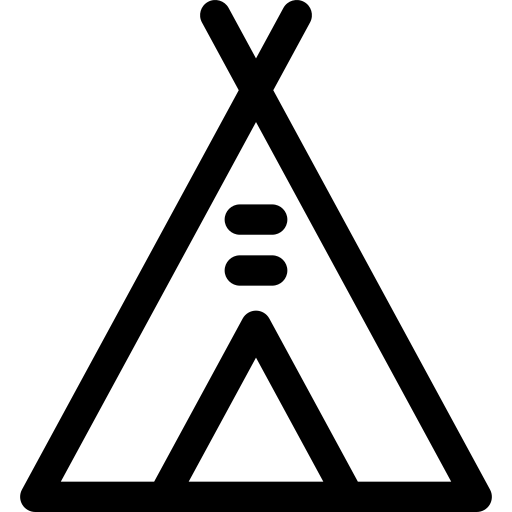
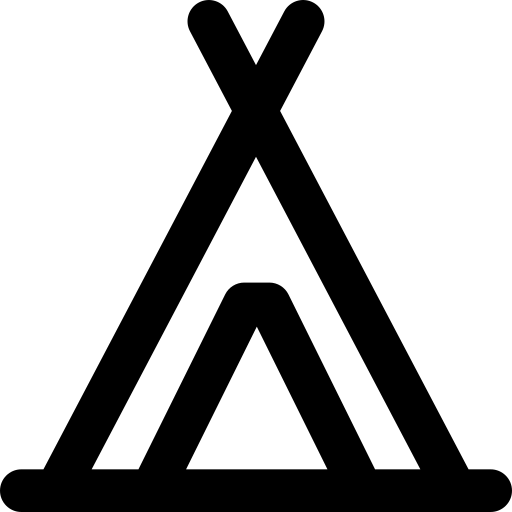
img of tent is changed

diff --git a/freenature/src/App.css b/freenature/src/App.css
@@ -197,6 +197,6 @@ svg:hover {
 }
 
 .leaflet-marker-icon {
-    content : url('./img/tentIcon.png');
+    content : url('./img/tent.png');
 
 }
